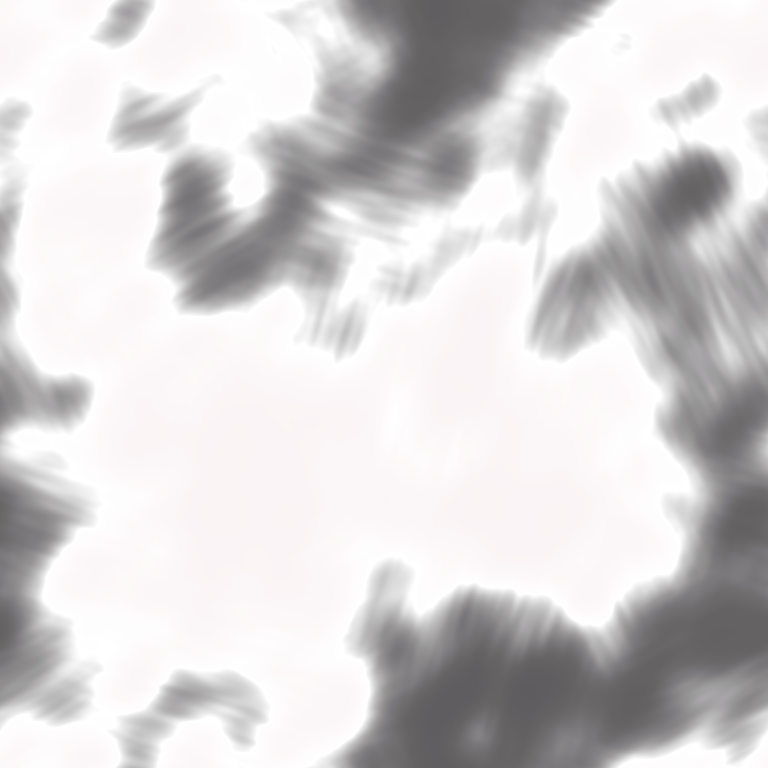
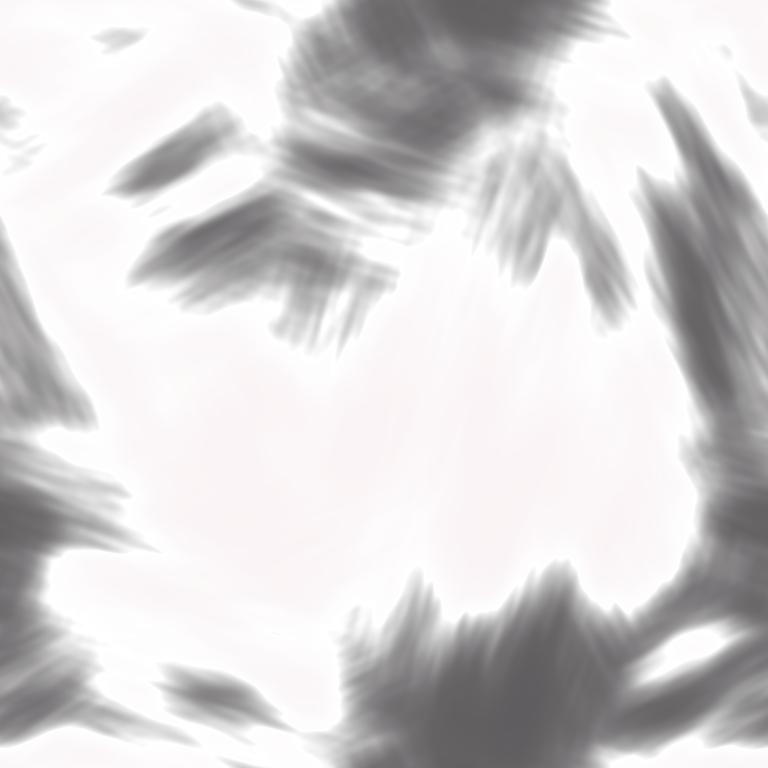
Dekorator (w toku): warianty A/B/C przez ?w=, poprawki weluru
Claude-Session: https://claude.ai/code/session_01CUrTUUWPAyYhZYbknifSxY

diff --git a/css/warianty/a.css b/css/warianty/a.css
@@ -1,0 +1,36 @@
+/* Wariant A · Czarny mat (?w=a). Ładowany po style.css.
+   Noc gładka #141113 bez tekstury, różowe złoto #D4A49A oszczędnie: główny przycisk, cienkie linie, „Body Lab” w logo.
+   Reszta akcentów (etykiety danych, aktywny język, uwaga) schodzi do bieli i szarości nocy. Jasne sekcje bez zmian. */
+:root {
+  --mat: #141113;
+  --mat-karta: #1A1618;
+  --mat-linia: rgba(246, 236, 232, .09);
+}
+
+/* nagłówek: pełny mat zamiast przydymionego szkła, złota nić na dole cieńsza */
+.naglowek { background: rgba(20, 17, 19, .97); backdrop-filter: none; border-bottom-color: rgba(212, 164, 154, .28); }
+.jezyki a[aria-current] { background: none; color: var(--tekst-noc); box-shadow: inset 0 -1px 0 var(--zloto); border-radius: 0; }
+
+.noc { background: var(--mat); }
+
+/* pierwszy ekran: miejsce na zdjęcie w macie (bez różowej poświaty) */
+.hero-obraz, .monika-foto, .karta-obraz {
+  background: radial-gradient(110% 80% at 70% 15%, rgba(212, 164, 154, .16), transparent 60%),
+              linear-gradient(165deg, #241E21, #121011);
+}
+.hero-obraz { border-color: var(--mat-linia); }
+
+/* karty zabiegów: mat o ton jaśniejszy, obrys neutralny, złoto dopiero po najechaniu */
+.karta { background: var(--mat-karta); border-color: var(--mat-linia); }
+.karta:hover { border-color: rgba(212, 164, 154, .7); }
+.karta-meta { border-top-color: var(--mat-linia); }
+
+.uwaga { color: var(--tekst-noc-2); border-left-width: 1px; }
+.dane dt { color: var(--tekst-noc-2); }
+.cel { border-top-width: 1px; }
+.stopka { border-top-color: rgba(212, 164, 154, .28); }
+
+@media (max-width: 900px) {
+  .pasek-dol { background: var(--mat); border-top: 1px solid rgba(212, 164, 154, .45); }
+  .pasek-dol a { border-color: var(--mat-linia); }
+}

diff --git a/css/warianty/b.css b/css/warianty/b.css
@@ -1,0 +1,30 @@
+/* Wariant B · Czarny welur (?w=b). Wszystko z A + welur na ciemnych powierzchniach:
+   nagłówek, pierwszy ekran, #soins, #contact, stopka, dolny pasek na telefonie.
+   Welur proceduralny (narzedzia/welur.py): ciepły, lekko śliwkowy połysk runa na #141113, kafle img/welur/*.webp.
+   Karty zabiegów zostają gładkie (mat na welurze), jasne sekcje gładkie. */
+@import url("a.css");
+
+:root {
+  --welur: url("../../img/welur/welur-runo.webp"), url("../../img/welur/welur-polysk.webp");
+  --welur-rozmiar: 128px 128px, 1536px 1536px;
+}
+
+.naglowek, .noc, .pasek-dol {
+  background-color: #141113;
+  background-image: var(--welur),
+    radial-gradient(90% 70% at 12% 0%, rgba(92, 48, 66, .22), transparent 62%),
+    radial-gradient(80% 60% at 100% 100%, rgba(70, 36, 52, .18), transparent 60%);
+  background-size: var(--welur-rozmiar), auto, auto;
+  background-repeat: repeat, repeat, no-repeat, no-repeat;
+}
+/* nagłówek lepki: tkanina stoi w miejscu, przewija się strona pod nią */
+.naglowek { background-color: rgba(20, 17, 19, .96); background-attachment: fixed; }
+
+/* karty: gładki mat leżący na welurze */
+.karta { background: #19151A; box-shadow: 0 1px 0 rgba(246, 236, 232, .04) inset, 0 18px 40px -24px rgba(0, 0, 0, .8); }
+
+/* telefon: mniejsze plamy połysku, żeby na 375 px było widać tkaninę, a nie jedną plamę */
+@media (max-width: 900px) {
+  :root { --welur-rozmiar: 128px 128px, 960px 960px; }
+  .naglowek { background-attachment: scroll; }
+}

diff --git a/css/warianty/c.css b/css/warianty/c.css
@@ -1,0 +1,23 @@
+/* Wariant C · Welur i folia (?w=c). Wszystko z B + H1 i „Body Lab” w delikatnej folii z różowego złota.
+   Folia = gradient tekstu. Najciemniejszy ton folii #C99384: 5,8:1 do najjaśniejszego miejsca weluru (#2C2326),
+   7,1:1 do #141113 (WCAG AA dla dużego i zwykłego tekstu). Najjaśniejszy ton #F2D5CB (bez bieli, bez połysku lustra). */
+@import url("b.css");
+
+:root {
+  --folia: linear-gradient(100deg, #E9C2B6 0%, #F2D5CB 22%, #D4A49A 46%, #C99384 60%, #E6BDB1 80%, #D9AC9F 100%);
+}
+
+.hero h1, .logo em {
+  background-image: var(--folia);
+  background-size: 100% 100%;
+  -webkit-background-clip: text;
+  background-clip: text;
+  -webkit-text-fill-color: transparent;
+  color: #D4A49A;                 /* zapas, gdy przeglądarka nie zna background-clip: text */
+}
+.logo em { padding-right: .06em; } /* kursywa nie ucina ostatniej litery */
+
+/* druk i tryb wysokiego kontrastu: zwykły kolor zamiast folii */
+@media (forced-colors: active), print {
+  .hero h1, .logo em { background: none; -webkit-text-fill-color: currentColor; }
+}

diff --git a/js/site.js b/js/site.js
@@ -72,3 +72,15 @@
 
   render(jezykZAdresu());
 })();
+
+// Warianty wyglądu do porównania (projekt/PALETY.md): ?w=a|b|c dokłada css/warianty/<w>.css po style.css.
+// Bez parametru strona wygląda jak dotąd. Do usunięcia po wyborze wariantu.
+(function () {
+  var w = new URLSearchParams(location.search).get('w');
+  if (!/^[abc]$/.test(w || '')) return;
+  var l = document.createElement('link');
+  l.rel = 'stylesheet';
+  l.href = 'css/warianty/' + w + '.css';
+  document.head.appendChild(l);
+  document.documentElement.setAttribute('data-wariant', w);
+})();

diff --git a/narzedzia/welur.py b/narzedzia/welur.py
@@ -64,8 +64,9 @@ def polysk(N=768, ziarno=60602):
     smugi = sum(w * norm(blur_kat(g(), 14, 3.2, k)) for w, k in zip(wagi, katy))
     # łagodne fale światła (jak tkanina leżąca nierówno) + średnie plamy
     duze = norm(blur_kat(g(), 85, 85, 0))
-    srednie = norm(blur_kat(g(), 18, 24, 40))
-    m = 1.0 * duze + .5 * srednie + .07 * norm(smugi)
+    # miękkie „fałdy” połysku: wydłużone plamy wzdłuż kierunku przeczesania (to odróżnia tkaninę od dymu)
+    faldy = sum(w * norm(blur_kat(g(), 48, 15, k)) for w, k in zip(wagi, katy))
+    m = 1.0 * duze + .62 * norm(faldy) + .12 * norm(smugi)
     m = np.tanh(.9 * norm(m))           # miękkie nasycenie: połysk w łatach, bez ostrych krawędzi
     m = norm(m)
     return np.where(m > 0, 1.35 * m, .6 * m)   # połysk wyraźniejszy niż cień (welur: ciemny z jasnymi łatami)
